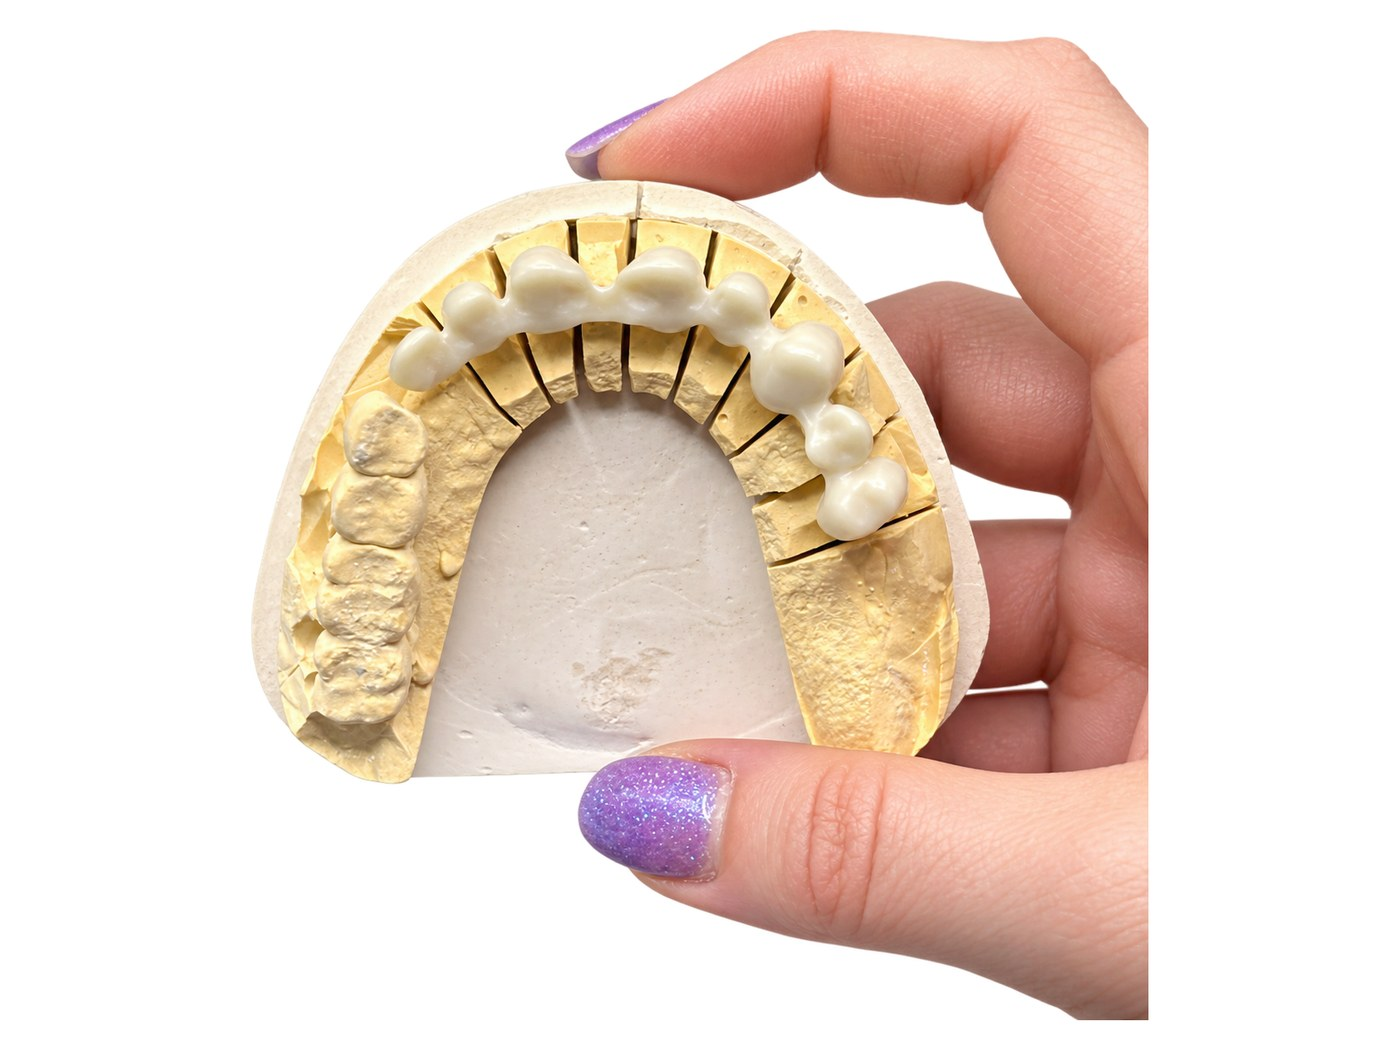
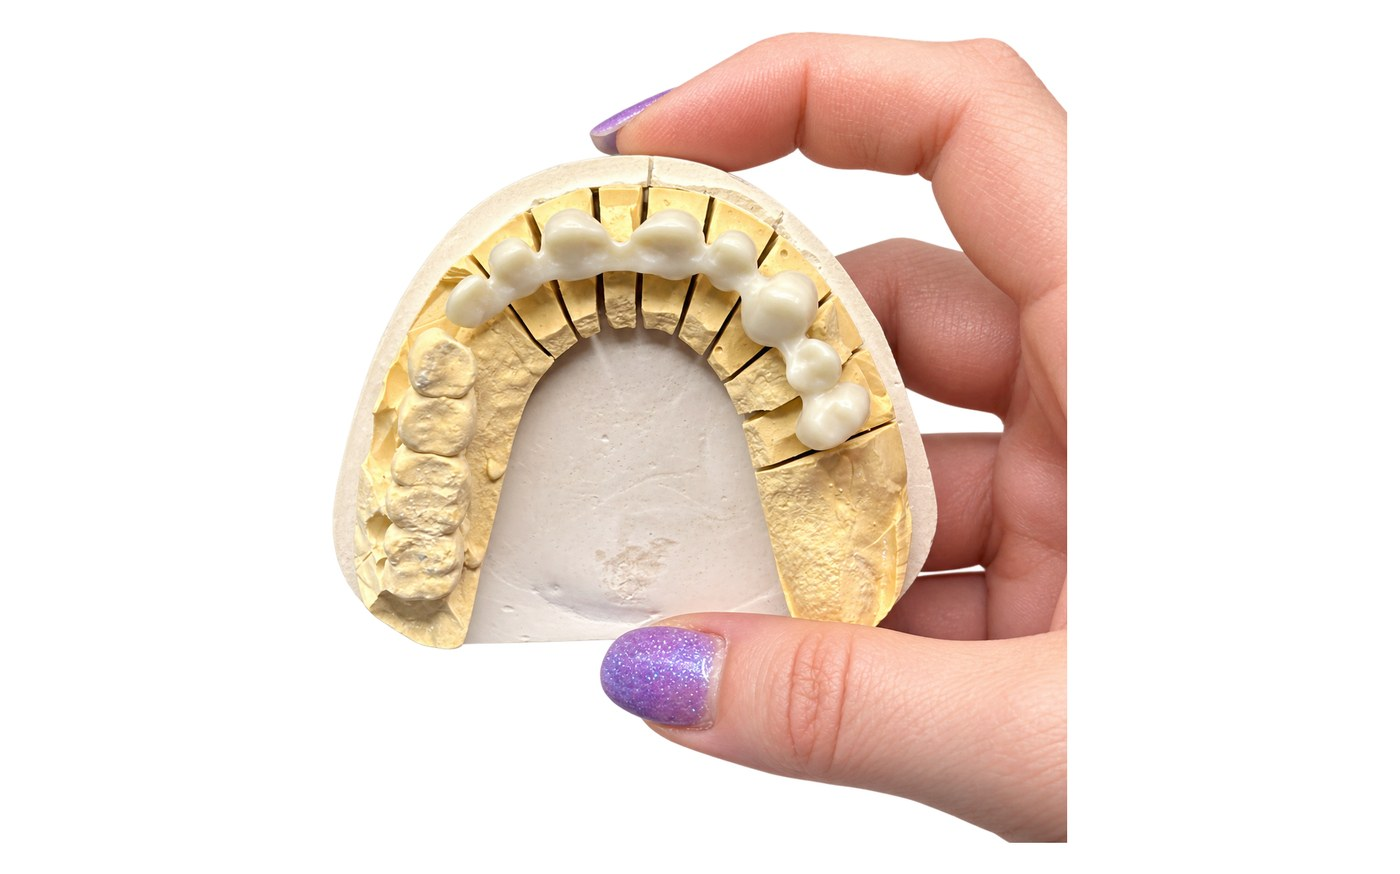
Las ocho portadas de las landings a sangre, sin bandas blancas
La foto de portada iba dentro de una caja blanca con margen y en
formato distinto al de la caja, y quedaba pequena y con mucho blanco
alrededor. Ahora cada portada es un recorte 16:10 cenido a la pieza que
llena la caja de lado a lado, en movil y en escritorio.

Ademas cambian cuatro fotos: All-on pasa a la protesis sobre pilares
Multi-Unit del catalogo 2026, Blender a la arcada con la barra de oro,
Carga inmediata a las guias quirurgicas y Diseno de sonrisa deja la
captura de 597 px por las coronas anteriores; Ferulas usa el par de
retenedores del banco del Drive.

Claude-Session: https://claude.ai/code/session_01G9ySE2q82eBR5v7f2bLYwG

diff --git a/corporativa/trabajos/all-on.html b/corporativa/trabajos/all-on.html
@@ -152,6 +152,12 @@ h2.big2 em { font-style:normal; color:var(--goldd); }
   .tfoot { flex-direction:column; align-items:flex-start; }
   .scriptb { align-self:flex-end; }
 }
+
+
+/* portada: la foto llena la caja sin bandas blancas */
+.lhud .ph { padding:0; }
+.lhud .ph img { width:100%; height:100%; max-width:none; max-height:none; object-fit:cover; }
+@media (max-width:760px) { .lhud .ph { height:auto; aspect-ratio:16/10; padding:0; } }
 </style></head><body>
 <div class="topbar">Laboratorio de pr&oacute;tesis dental digital &middot; Madrid &middot; Desde 1990</div>
 <nav class="top"><div class="in">
@@ -184,7 +190,7 @@ h2.big2 em { font-style:normal; color:var(--goldd); }
   </div>
   <div class="lhud">
     <span class="frame"><i></i><i></i><i></i><i></i></span>
-    <div class="ph"><img src="../img/allon-real.jpg" alt="Arcada completa fija sobre implantes, en nuestro laboratorio"><span class="scan"></span></div>
+    <div class="ph"><img src="../img/allon-portada.jpg" alt="Pr&oacute;tesis fija sobre implantes con pilares Multi-Unit"><span class="scan"></span></div>
     <div class="cap">All-on-4 / All-on-6 &middot; RB Dental</div>
   </div>
   <div class="scriptr"><span class="script">Precisi&oacute;n artesanal, tecnolog&iacute;a digital.</span></div>

diff --git a/corporativa/trabajos/ferulas.html b/corporativa/trabajos/ferulas.html
@@ -154,6 +154,12 @@ h2.big2 em { font-style:normal; color:var(--goldd); }
   .tfoot { flex-direction:column; align-items:flex-start; }
   .scriptb { align-self:flex-end; }
 }
+
+
+/* portada: la foto llena la caja sin bandas blancas */
+.lhud .ph { padding:0; }
+.lhud .ph img { width:100%; height:100%; max-width:none; max-height:none; object-fit:cover; }
+@media (max-width:760px) { .lhud .ph { height:auto; aspect-ratio:16/10; padding:0; } }
 </style></head><body>
 <div class="topbar">Laboratorio de pr&oacute;tesis dental digital &middot; Madrid &middot; Desde 1990</div>
 <nav class="top"><div class="in">
@@ -186,7 +192,7 @@ h2.big2 em { font-style:normal; color:var(--goldd); }
   </div>
   <div class="lhud">
     <span class="frame"><i></i><i></i><i></i><i></i></span>
-    <div class="ph"><img src="../img/ferulas4.jpg" alt="F&eacute;rula de descarga"><span class="scan"></span></div>
+    <div class="ph"><img src="../img/ferulas-portada.jpg" alt="F&eacute;rulas transparentes termoformadas"><span class="scan"></span></div>
     <div class="cap">F&eacute;rula de descarga &middot; RB Dental</div>
   </div>
   <div class="scriptr"><span class="script">Precisi&oacute;n artesanal, tecnolog&iacute;a digital.</span></div>

diff --git a/corporativa/trabajos/diseno-de-sonrisa.html b/corporativa/trabajos/diseno-de-sonrisa.html
@@ -152,6 +152,12 @@ h2.big2 em { font-style:normal; color:var(--goldd); }
   .tfoot { flex-direction:column; align-items:flex-start; }
   .scriptb { align-self:flex-end; }
 }
+
+
+/* portada: la foto llena la caja sin bandas blancas */
+.lhud .ph { padding:0; }
+.lhud .ph img { width:100%; height:100%; max-width:none; max-height:none; object-fit:cover; }
+@media (max-width:760px) { .lhud .ph { height:auto; aspect-ratio:16/10; padding:0; } }
 </style></head><body>
 <div class="topbar">Laboratorio de pr&oacute;tesis dental digital &middot; Madrid &middot; Desde 1990</div>
 <nav class="top"><div class="in">
@@ -184,7 +190,7 @@ h2.big2 em { font-style:normal; color:var(--goldd); }
   </div>
   <div class="lhud">
     <span class="frame"><i></i><i></i><i></i><i></i></span>
-    <div class="ph"><img src="../img/sonrisa-app.jpg" alt="Dise&ntilde;o de sonrisa"><span class="scan"></span></div>
+    <div class="ph"><img src="../img/sonrisa-portada.jpg" alt="Carillas y coronas del sector anterior"><span class="scan"></span></div>
     <div class="cap">Dise&ntilde;o de sonrisa &middot; RB Dental</div>
   </div>
   <div class="scriptr"><span class="script">Precisi&oacute;n artesanal, tecnolog&iacute;a digital.</span></div>

diff --git a/corporativa/trabajos/carga-inmediata.html b/corporativa/trabajos/carga-inmediata.html
@@ -152,6 +152,12 @@ h2.big2 em { font-style:normal; color:var(--goldd); }
   .tfoot { flex-direction:column; align-items:flex-start; }
   .scriptb { align-self:flex-end; }
 }
+
+
+/* portada: la foto llena la caja sin bandas blancas */
+.lhud .ph { padding:0; }
+.lhud .ph img { width:100%; height:100%; max-width:none; max-height:none; object-fit:cover; }
+@media (max-width:760px) { .lhud .ph { height:auto; aspect-ratio:16/10; padding:0; } }
 </style></head><body>
 <div class="topbar">Laboratorio de pr&oacute;tesis dental digital &middot; Madrid &middot; Desde 1990</div>
 <nav class="top"><div class="in">
@@ -184,7 +190,7 @@ h2.big2 em { font-style:normal; color:var(--goldd); }
   </div>
   <div class="lhud">
     <span class="frame"><i></i><i></i><i></i><i></i></span>
-    <div class="ph"><img src="../img/carga-ferula-b.jpg" alt="Carga inmediata"><span class="scan"></span></div>
+    <div class="ph"><img src="../img/carga-portada.jpg" alt="Gu&iacute;as quir&uacute;rgicas para carga inmediata"><span class="scan"></span></div>
     <div class="cap">Carga inmediata &middot; RB Dental</div>
   </div>
   <div class="scriptr"><span class="script">Precisi&oacute;n artesanal, tecnolog&iacute;a digital.</span></div>

diff --git a/corporativa/trabajos/blender.html b/corporativa/trabajos/blender.html
@@ -155,6 +155,12 @@ h2.big2 em { font-style:normal; color:var(--goldd); }
   .tfoot { flex-direction:column; align-items:flex-start; }
   .scriptb { align-self:flex-end; }
 }
+
+
+/* portada: la foto llena la caja sin bandas blancas */
+.lhud .ph { padding:0; }
+.lhud .ph img { width:100%; height:100%; max-width:none; max-height:none; object-fit:cover; }
+@media (max-width:760px) { .lhud .ph { height:auto; aspect-ratio:16/10; padding:0; } }
 </style></head><body>
 <div class="topbar">Laboratorio de pr&oacute;tesis dental digital &middot; Madrid &middot; Desde 1990</div>
 <nav class="top"><div class="in">
@@ -187,7 +193,7 @@ h2.big2 em { font-style:normal; color:var(--goldd); }
   </div>
   <div class="lhud">
     <span class="frame"><i></i><i></i><i></i><i></i></span>
-    <div class="ph"><img src="../img/blender.jpg" alt="Barra Blender"><span class="scan"></span></div>
+    <div class="ph"><img src="../img/blender-portada.jpg" alt="Barra Blender de titanio anodizado en oro con la arcada"><span class="scan"></span></div>
     <div class="cap">Barra Blender &middot; RB Dental</div>
   </div>
   <div class="scriptr"><span class="script">Precisi&oacute;n artesanal, tecnolog&iacute;a digital.</span></div>

diff --git a/corporativa/trabajos/removible.html b/corporativa/trabajos/removible.html
@@ -155,11 +155,13 @@ h2.big2 em { font-style:normal; color:var(--goldd); }
   .scriptb { align-self:flex-end; }
 }
 
-/* portada: la foto es 4:3 y llena la caja */
-.lhud .ph { padding:10px; }
-@media (max-width:760px) { .lhud .ph { height:auto; aspect-ratio:4/3; padding:8px; } }
 
 .esqc .vid img { width:100%; height:auto; display:block; border-radius:14px; }
+
+/* portada: la foto llena la caja sin bandas blancas */
+.lhud .ph { padding:0; }
+.lhud .ph img { width:100%; height:100%; max-width:none; max-height:none; object-fit:cover; }
+@media (max-width:760px) { .lhud .ph { height:auto; aspect-ratio:16/10; padding:0; } }
 </style></head><body>
 <div class="topbar">Laboratorio de pr&oacute;tesis dental digital &middot; Madrid &middot; Desde 1990</div>
 <nav class="top"><div class="in">

diff --git a/corporativa/trabajos/ortodoncia.html b/corporativa/trabajos/ortodoncia.html
@@ -155,9 +155,11 @@ h2.big2 em { font-style:normal; color:var(--goldd); }
   .scriptb { align-self:flex-end; }
 }
 
-/* portada: la foto es 4:3 y llena la caja */
-.lhud .ph { padding:10px; }
-@media (max-width:760px) { .lhud .ph { height:auto; aspect-ratio:4/3; padding:8px; } }
+
+/* portada: la foto llena la caja sin bandas blancas */
+.lhud .ph { padding:0; }
+.lhud .ph img { width:100%; height:100%; max-width:none; max-height:none; object-fit:cover; }
+@media (max-width:760px) { .lhud .ph { height:auto; aspect-ratio:16/10; padding:0; } }
 </style></head><body>
 <div class="topbar">Laboratorio de pr&oacute;tesis dental digital &middot; Madrid &middot; Desde 1990</div>
 <nav class="top"><div class="in">

diff --git a/corporativa/trabajos/protesis-fija.html b/corporativa/trabajos/protesis-fija.html
@@ -155,9 +155,11 @@ h2.big2 em { font-style:normal; color:var(--goldd); }
   .scriptb { align-self:flex-end; }
 }
 
-/* portada: la foto es 4:3 y llena la caja */
-.lhud .ph { padding:10px; }
-@media (max-width:760px) { .lhud .ph { height:auto; aspect-ratio:4/3; padding:8px; } }
+
+/* portada: la foto llena la caja sin bandas blancas */
+.lhud .ph { padding:0; }
+.lhud .ph img { width:100%; height:100%; max-width:none; max-height:none; object-fit:cover; }
+@media (max-width:760px) { .lhud .ph { height:auto; aspect-ratio:16/10; padding:0; } }
 </style></head><body>
 <div class="topbar">Laboratorio de pr&oacute;tesis dental digital &middot; Madrid &middot; Desde 1990</div>
 <nav class="top"><div class="in">
